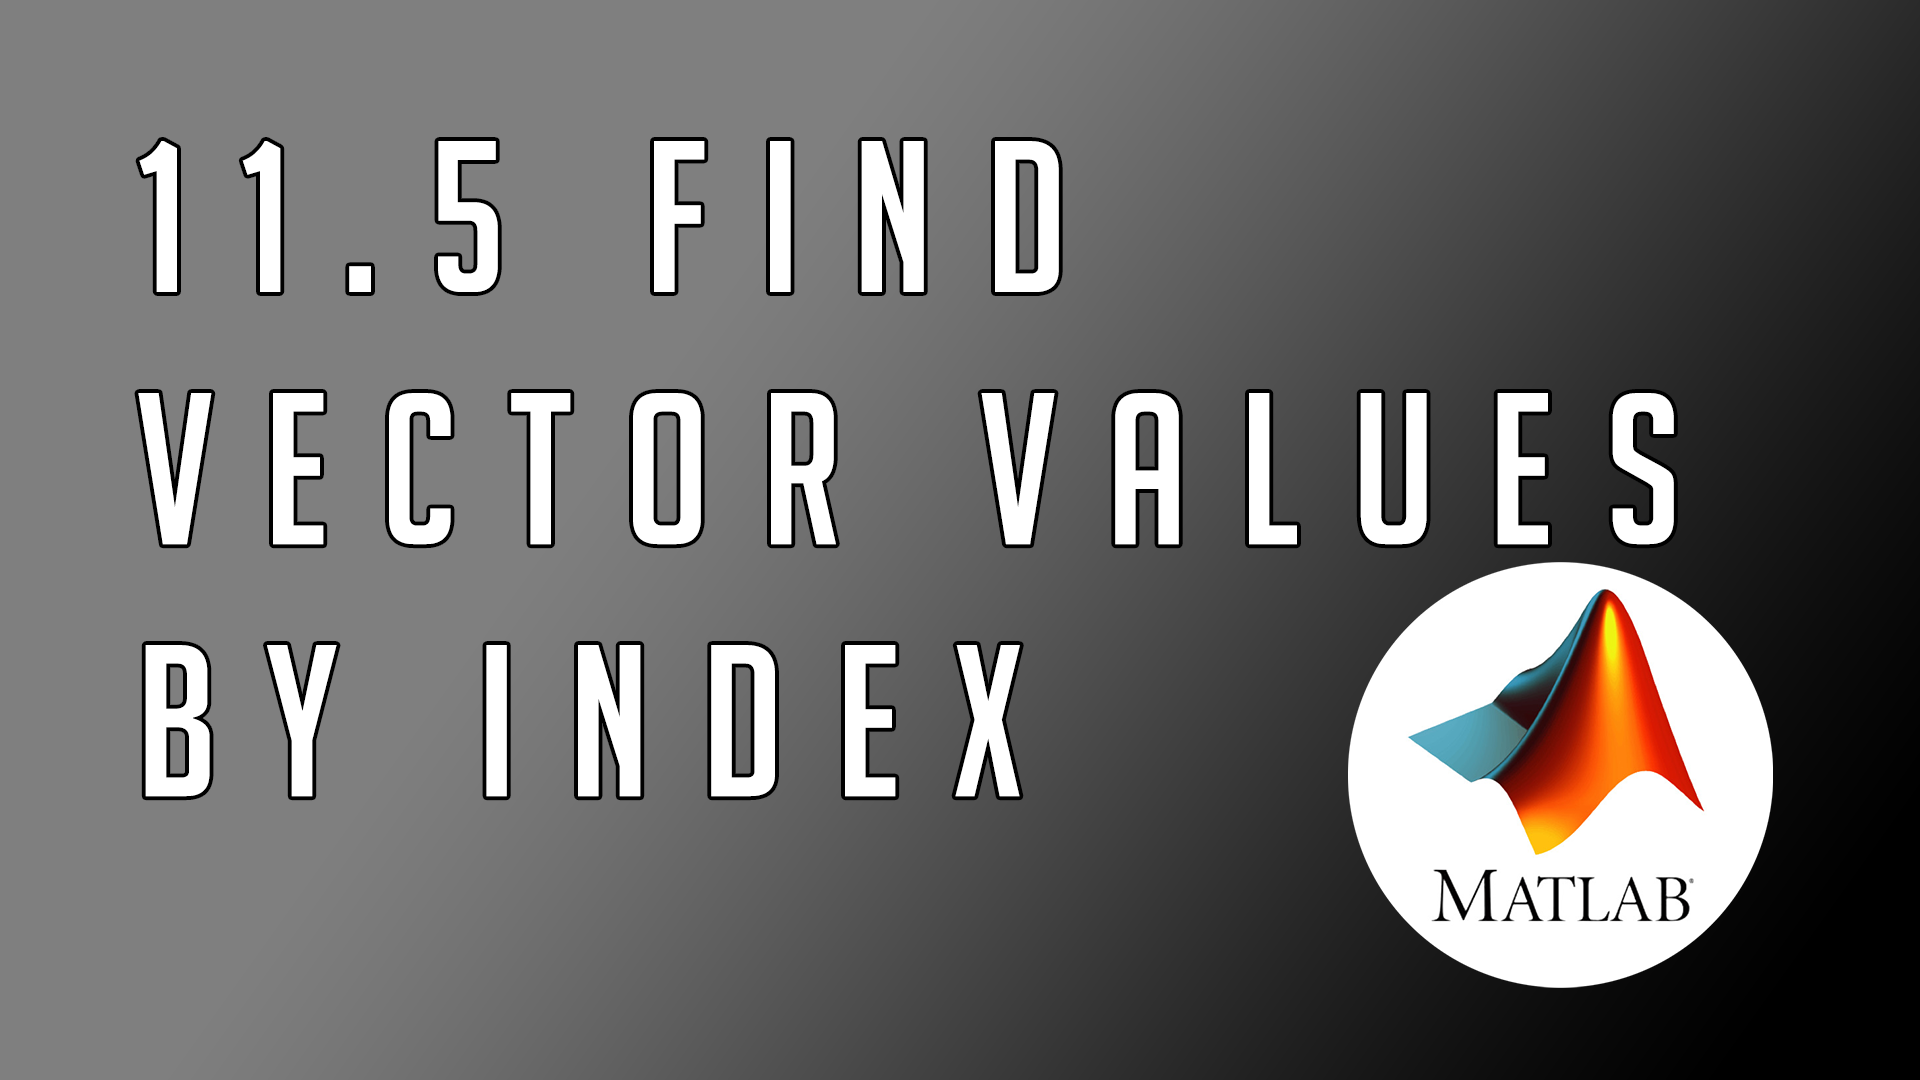
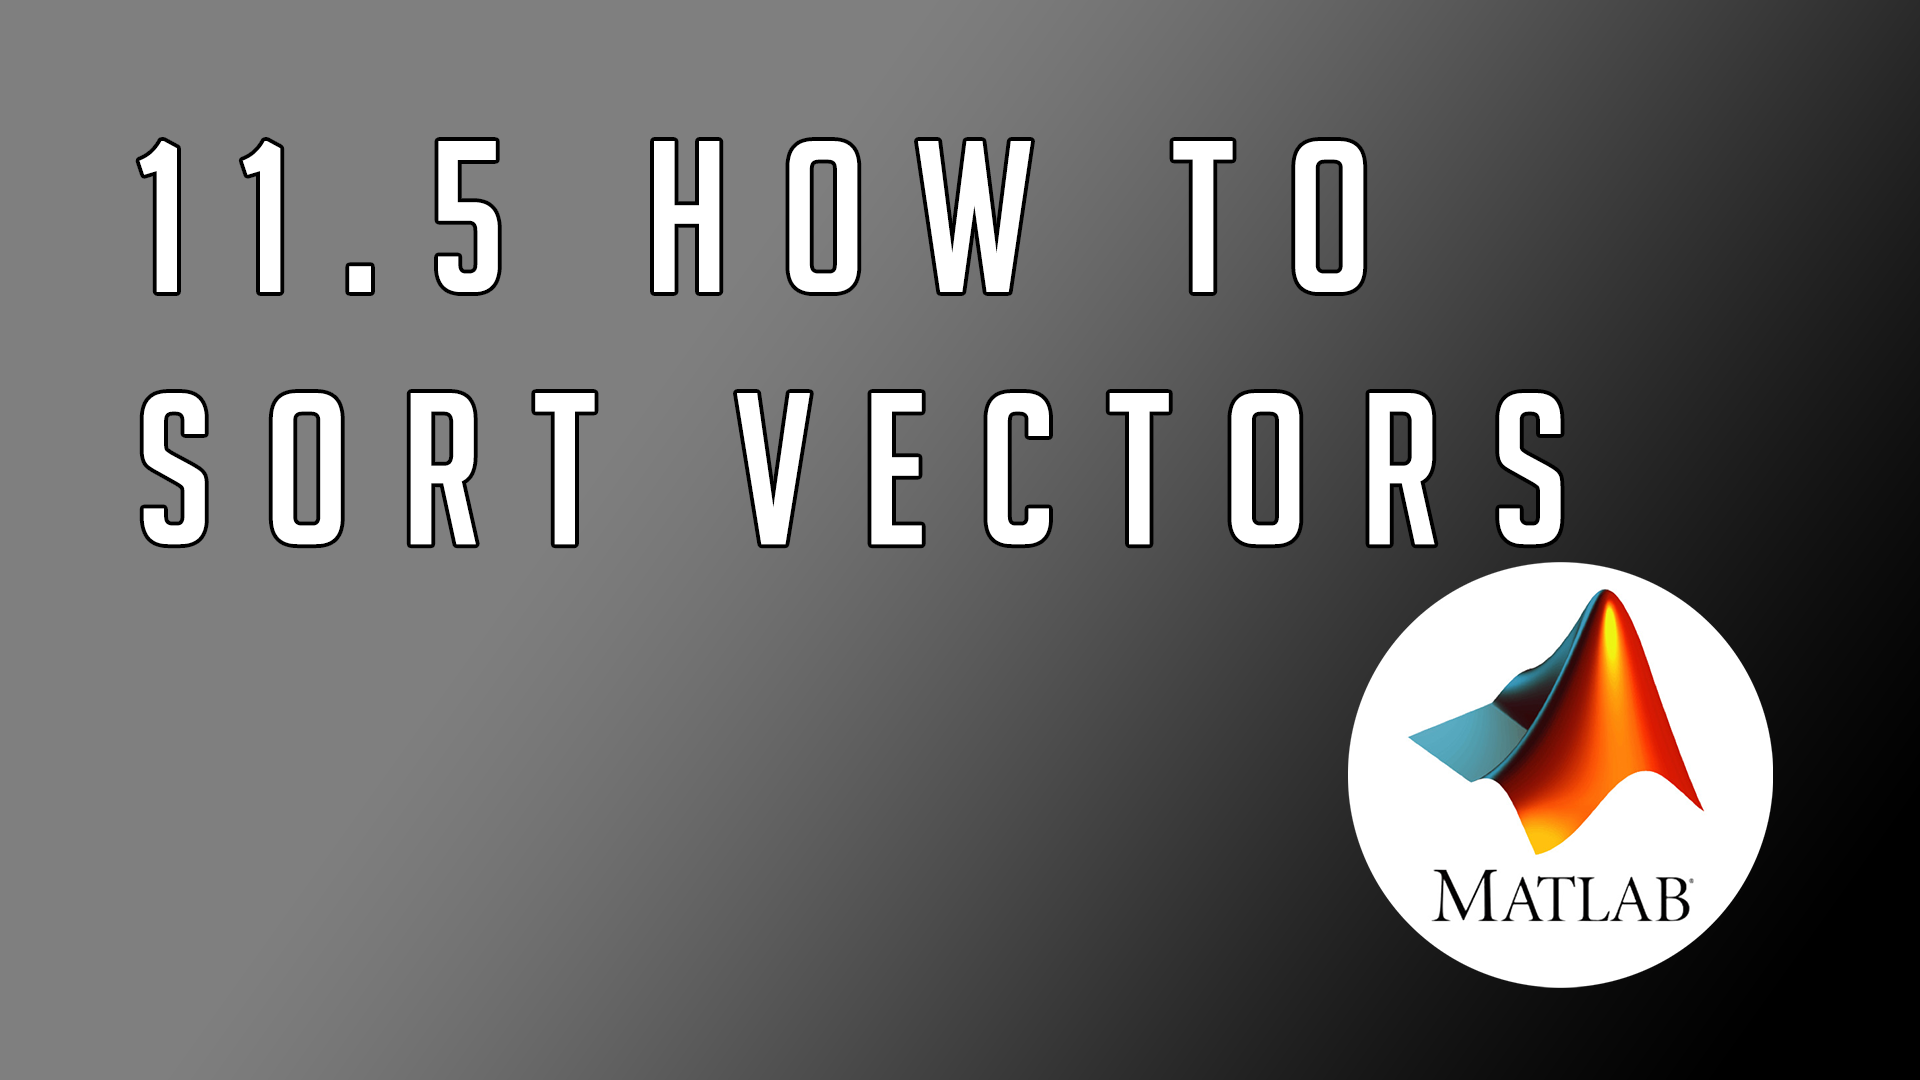
Update

diff --git a/README.md b/README.md
@@ -170,7 +170,7 @@ All Episodes
                      <a href="https://www.patreon.com/theengiineer">video (coming soon)</a> |
                      <a href="https://www.patreon.com/theengiineer">homework (coming soon)</a> |
                      <a href="https://www.patreon.com/theengiineer">code (coming soon)</a><br/><br/></div>
-                     <p>In this video we will learn how you can load data into MATLAB and export it into other formats - some additional tips will be given! Duration: X minutes</p></td>
+                     <p>In this video we will learn how you canfind the indices of defined values in a vector! Duration: X minutes</p></td>
     </tr>
         </tr>
         </tr>
@@ -181,7 +181,7 @@ All Episodes
                                           <a href="https://www.patreon.com/theengiineer">video (coming soon)</a> |
                                           <a href="https://www.patreon.com/theengiineer">homework (coming soon)</a> |
                                           <a href="https://www.patreon.com/theengiineer">code (coming soon)</a><br/><br/></div>
-                                          <p>This video will give you a brief overview of what type of plots exist inside of MATLAB and how you can create your own fancy plots! Duration: X minutes</p></td>
+                                          <p>This video will give you a brief overview on how to extract vectors and create so called subvectors! Duration: X minutes</p></td>
         <td width="50%"><a href="https://www.patreon.com/theengiineer"><img alt="Plot Overview" src="Images/Video14.png"/></td>
     </tr>
         </tr>
@@ -196,7 +196,7 @@ All Episodes
                      <a href="https://www.patreon.com/theengiineer">video (coming soon)</a> |
                      <a href="https://www.patreon.com/theengiineer">homework (coming soon)</a> |
                      <a href="https://www.patreon.com/theengiineer">code (coming soon)</a><br/><br/></div>
-                     <p>In this video we will learn how you can load data into MATLAB and export it into other formats - some additional tips will be given! Duration: X minutes</p></td>
+                     <p>This video will show you how to use vector logic! Duration: X minutes</p></td>
     </tr>
         </tr>
         </tr>
@@ -207,7 +207,7 @@ All Episodes
                                           <a href="https://www.patreon.com/theengiineer">video (coming soon)</a> |
                                           <a href="https://www.patreon.com/theengiineer">homework (coming soon)</a> |
                                           <a href="https://www.patreon.com/theengiineer">code (coming soon)</a><br/><br/></div>
-                                          <p>This video will give you a brief overview of what type of plots exist inside of MATLAB and how you can create your own fancy plots! Duration: X minutes</p></td>
+                                          <p>This brief video will show you how to sort vectors in a specific order! Duration: X minutes</p></td>
         <td width="50%"><a href="https://www.patreon.com/theengiineer"><img alt="Plot Overview" src="Images/Video16.png"/></td>
     </tr>
     </table>
